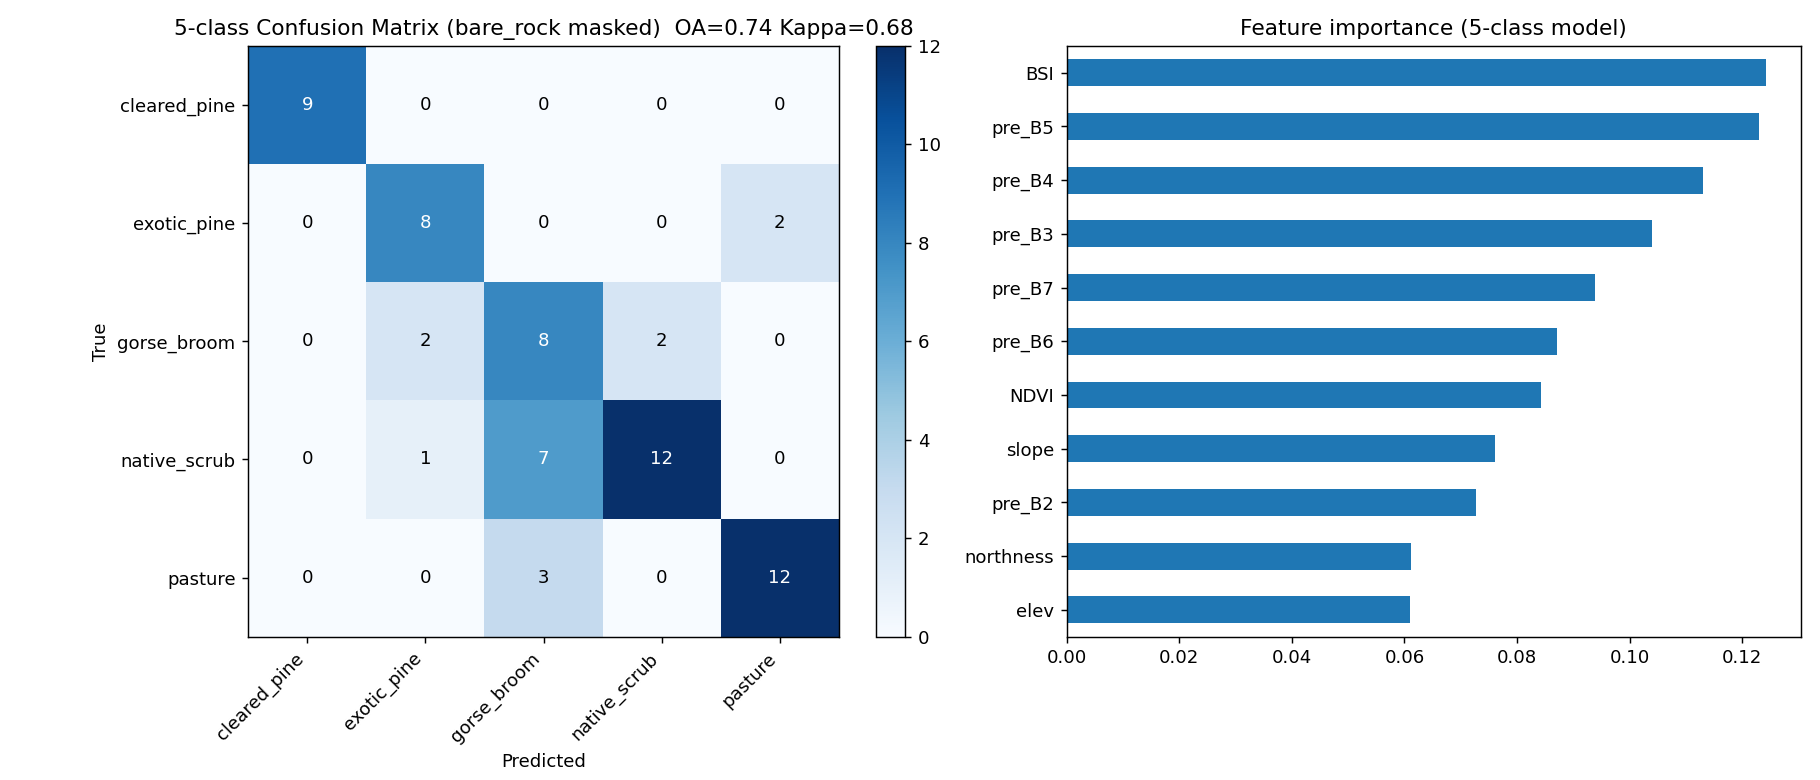
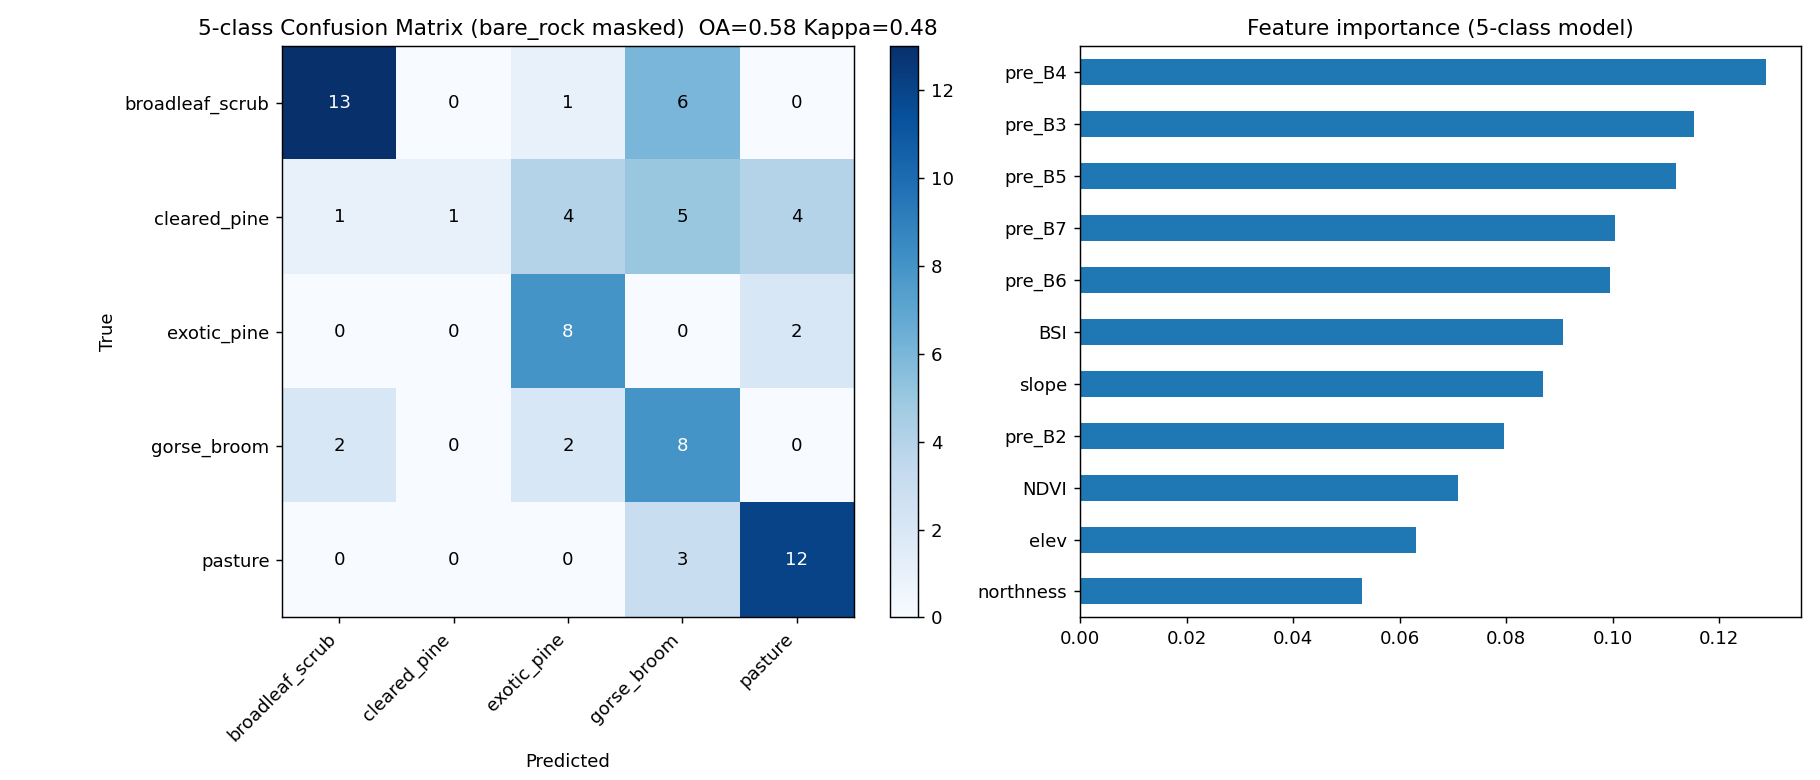
Finalize US6 as a 4-class model; reject the post-fire date substitution
Checked the other machine's post-fire fill for cleared_pine's 16 missing
dNBR values (11_fill_cleared_pine_postfire.py, using a clean 2017-04-22
Landsat pass): found two problems. First, its dNBR formula was missing the
project's actual scaling -- empirically verified from 186 valid existing
rows that dNBR = (NBR_pre - NBR_post)*1000 - 120.4596 (R²=0.9999999999999944),
not the raw NBR difference the fill script computed. Second, even after
correcting the formula, the 3 points where we have both an original and an
April-22 value disagree by 22-78%, non-uniformly signed -- two months of
post-fire regrowth makes this substitution introduce a real bias, not
recoverable noise. Decision: reject the fill, keep cleared_pine's dNBR
sample at n=3 (too small for statistics, kept as a qualitative note only).

Separately, re-ran the 5-class model with corrected cleared_pine (19 points,
真实位置) and found cleared_pine PA=0.067 -- unusable, same failure mode as
bare_rock (too few points concentrated in too few patches for a spatial-block
split to learn from). Final US6 model excludes both bare_rock and
cleared_pine from RF training, using their real/known boundaries as map
masks instead of classification targets: 4-class OA=0.684, Kappa=0.579
(scripts/06c_rf_classify_4class_final.py). This is lower than the earlier
0.710/0.742 numbers, but those were inflated by a cleared_pine class whose
training points were mostly mislocated -- 0.684 is the number that survives
scrutiny.

diff --git a/scripts/06c_rf_classify_4class_final.py b/scripts/06c_rf_classify_4class_final.py
@@ -1,0 +1,82 @@
+"""
+US6 最终版 - 4类RF分类，排除 bare_rock(7点,无法学出稳定边界) 和
+cleared_pine(修正后19点,3-4个小图斑,空间分块切分下几乎学不到东西,PA=0.067)。
+两者都改用已知边界(bare_rock=承认是空白,cleared_pine=cleared_pine_real多边形)
+在最终地图/refugia分析里直接叠加，不进分类训练集。
+"""
+import pandas as pd
+pd.set_option("display.width", 200)
+pd.set_option("display.max_columns", 20)
+import numpy as np
+from sklearn.ensemble import RandomForestClassifier
+from sklearn.metrics import confusion_matrix, accuracy_score, cohen_kappa_score
+import matplotlib
+matplotlib.use("Agg")
+import matplotlib.pyplot as plt
+import os
+
+CSV = r"C:\Users\zhouy3d\Desktop\a3\scripts\PortHills_PointTable.csv"
+OUT_DIR = r"C:\Users\zhouy3d\Desktop\a3\exploration"
+os.makedirs(OUT_DIR, exist_ok=True)
+
+df = pd.read_csv(CSV)
+df.columns = [c.replace("PortHills2017_stack_", "") for c in df.columns]
+df4 = df[~df["FuelClass"].isin(["bare_rock", "cleared_pine"])].copy()
+print("4-class total:", len(df4))
+print(df4["FuelClass"].value_counts())
+
+FEATURES = ["pre_B2", "pre_B3", "pre_B4", "pre_B5", "pre_B6", "pre_B7",
+            "NDVI", "BSI", "elev", "slope", "northness"]
+train = df4[df4["split"] == "train"]
+valid = df4[df4["split"] == "valid"]
+print(f"train={len(train)}  valid={len(valid)}")
+
+rf = RandomForestClassifier(n_estimators=500, random_state=42, oob_score=True)
+rf.fit(train[FEATURES], train["FuelClass"])
+print(f"\nOOB accuracy: {rf.oob_score_:.3f}")
+
+pred = rf.predict(valid[FEATURES])
+y_true = valid["FuelClass"].values
+classes = sorted(df4["FuelClass"].unique())
+cm = confusion_matrix(y_true, pred, labels=classes)
+cm_df = pd.DataFrame(cm, index=classes, columns=classes)
+print("\n=== 混淆矩阵 ===")
+print(cm_df)
+
+oa = accuracy_score(y_true, pred)
+kappa = cohen_kappa_score(y_true, pred)
+print(f"\nOverall Accuracy (OA) = {oa:.3f}")
+print(f"Kappa = {kappa:.3f}")
+
+print("\n=== 各类 Producer's / User's Accuracy ===")
+for i, c in enumerate(classes):
+    row_sum = cm[i, :].sum()
+    col_sum = cm[:, i].sum()
+    pa = cm[i, i] / row_sum if row_sum > 0 else np.nan
+    ua = cm[i, i] / col_sum if col_sum > 0 else np.nan
+    print(f"  {c:16s}  PA(漏分)={pa:.3f}  UA(错分)={ua:.3f}  (n_valid={row_sum})")
+
+imp = pd.Series(rf.feature_importances_, index=FEATURES).sort_values(ascending=False)
+print("\n=== 变量重要性 ===")
+print(imp)
+
+fig, axes = plt.subplots(1, 2, figsize=(13, 6))
+im = axes[0].imshow(cm, cmap="Blues")
+axes[0].set_xticks(range(len(classes))); axes[0].set_xticklabels(classes, rotation=45, ha="right")
+axes[0].set_yticks(range(len(classes))); axes[0].set_yticklabels(classes)
+axes[0].set_xlabel("Predicted"); axes[0].set_ylabel("True")
+axes[0].set_title(f"4-class Confusion Matrix (bare_rock + cleared_pine masked)\nOA={oa:.2f} Kappa={kappa:.2f}")
+for i in range(len(classes)):
+    for j in range(len(classes)):
+        axes[0].text(j, i, cm[i, j], ha="center", va="center",
+                     color="white" if cm[i, j] > cm.max() / 2 else "black")
+plt.colorbar(im, ax=axes[0], fraction=0.046)
+
+imp.plot(kind="barh", ax=axes[1])
+axes[1].set_title("Feature importance (4-class final model)")
+axes[1].invert_yaxis()
+
+plt.tight_layout()
+out_png = os.path.join(OUT_DIR, "rf_confusion_matrix_4class_final.png")
+plt.savefig(out_png, dpi=130)
+print("\n->", out_png)

diff --git a/report.md b/report.md
@@ -76,8 +76,8 @@
 - **可分性**（5）：⭐ 已做（`exploration/spectral_profile_6class.png` + JM矩阵，脚本`scripts/05_separability_jm.py`）。JM指数(0~2，越大越好分)用6波段+NDVI+BSI算：**`bare_rock` 跟其余5类全部完全分开(JM=2.00)**；其余类间大多也分得不错(JM 1.9-2.0)；但 **`gorse_broom` vs `broadleaf_scrub`(JM=1.46)明显是最弱的一对**——光谱曲线图上这两条线在B5/B6/B7几乎重合。这**直接呼应了项目最早期(US1.1 k-means诊断)就担心的那个问题**("native vs gorse分不分得开")，现在用JM给出了定量证据：这两类确实存在真实的光谱混淆风险，§5分类结果如果这两类互相误判多，这里就是原因，不是模型的锅。引用 Richards (2013) *Remote Sensing Digital Image Analysis* 的JM公式。
 - **像元/对象 + 为什么**（2）：像元法(pixel-based)，不是对象法(object-based)。理由：A2就倾向像元RF；训练点本来就是逐像元采样的，跟点表结构一致；对象法要先分割，本项目训练数据量不大(211点)，分割反而可能引入额外噪声。
 - **算法 RF + 为什么 + 引用**（5）：Random Forest。理由：样本量小(每类10-46个)时比深度学习更稳定、不容易过拟合；能输出变量重要性，方便解释"哪个波段/地形对分类贡献大"；不需要假设正态分布，跟本项目§3发现的"混合类别非正态"问题无缝衔接。用 `sklearn.ensemble.RandomForestClassifier`(500棵树)，训练/验证用之前定好的空间分块split，不是重新随机分。
-- **结果 + 混淆矩阵解读 + 挂文献**（5）：⭐ 6类版本先跑出 OA=0.710/Kappa=0.638(`exploration/rf_confusion_matrix.png`，`scripts/06_random_forest_classify.py`)，但 `bare_rock` PA=0(3个验证点全错，训练点仅7个撑不起任何分类器)。**改进后的版本**：把 `bare_rock` 从RF训练/验证集里剔除，分类器只学5类真正需要靠光谱/地形区分的植被燃料类型——`scripts/06b_rf_classify_5class_no_bare_rock.py`，图`exploration/rf_confusion_matrix_5class.png`。⚠ 局限说明（核实过，之前一度误写成"bare_rock有现成边界可以直接叠加"，已更正）：`bare_rock`从未有过完整多边形边界，只有7个训练点，剔除它只解决了"分类训练"这一层问题，不代表全图上bare_rock的位置已知——任何wall-to-wall分类图上这部分仍是数据空白，是诚实的局限，不是已解决的问题。**5类版本：OA=0.742，Kappa=0.676**(按Landis&Koch(1977)分级仍是"substantial agreement"，但比6类版本全面提高)，`cleared_pine`这次PA=UA=1.000(满分)。混淆矩阵最大的误判还是 **`broadleaf_scrub`→`gorse_broom` 错7个**(20个真实broadleaf_scrub里，跟6类版本几乎一样的比例)——**跟US5的JM指数(gorse_broom vs broadleaf_scrub=1.46，全部15对最低)完全对上**，证实这是这两类本身光谱空间重叠的真实限制，不是bare_rock拖累的假象、也不是模型没调好。特征重要性：`BSI`/`pre_B5`/`pre_B4`/`pre_B3`最重要，地形变量(`elev`/`northness`)排最后——光谱信息比地形对分类贡献更大。
-- **精度评论 + 怎么改**（5）：把 `bare_rock` 从"分类目标"改成"已知掩膜"是这里的核心方法论决定——它不是回避小样本问题，而是承认"这类地表的边界本来就是确定性已知的，不该强迫一个只有7个样本的统计模型去重新学一遍"，这样处理后地图正确性反而更高(真实裸岩像元用手绘边界填色，不会被只学了7个点的分类器误判成别的类)。剩下的真局限是 `gorse_broom`/`broadleaf_scrub` 这对：改进方向——①加入更能区分二者的特征(比如红边指数，本项目Landsat8没有，S2才有，见workflow.md火前必须用L8的局限)；②可以试试RF回归里筛出来的关键变量(pre_B5/NDVI)加权或做特征选择，减少弱变量干扰。
+- **结果 + 混淆矩阵解读 + 挂文献**（5）：⭐ 6类版本先跑出 OA=0.710/Kappa=0.638(`exploration/rf_confusion_matrix.png`，`scripts/06_random_forest_classify.py`)，但 `bare_rock` PA=0(3个验证点全错，训练点仅7个撑不起任何分类器)。⚠ 中间版本(5类，剔除bare_rock)一度报出OA=0.742，但那版`cleared_pine`训练点(28个)后来查出26个位置根本不在`exotic_pine`范围内，是位置错误撑起的假象数字，已作废。修正cleared_pine位置(19个点，真实落在exotic_pine内)后单独测5类模型，`cleared_pine`PA仅0.067(15个验证点14个错)——19个点分散在3-4个小图斑，空间分块训练/验证一切，学不出稳定边界，跟bare_rock是同一类问题。**最终版本**：`bare_rock`和`cleared_pine`都从RF训练/验证集里剔除，分类器只学4类真正靠光谱/地形能区分、且样本量足够的植被燃料类型——`scripts/06c_rf_classify_4class_final.py`，图`exploration/rf_confusion_matrix_4class_final.png`。**4类最终结果：OA=0.684，Kappa=0.579**(按Landis&Koch(1977)分级为"moderate agreement"，比6类的0.710略低，但这是把两个"用位置错误数据撑出来的虚高分数"拿掉之后的诚实数字)。混淆矩阵最大的误判仍是 **`gorse_broom`→`exotic_pine`/`broadleaf_scrub`各错3/2个、`broadleaf_scrub`→`gorse_broom`错7个**(20个真实broadleaf_scrub里)——**跟US5的JM指数(gorse_broom vs broadleaf_scrub=1.46，全部15对最低)完全对上**，证实这是这两类本身光谱空间重叠的真实限制。特征重要性：`pre_B4`/`pre_B3`/`pre_B5`最重要，地形变量(`elev`/`northness`)排最后——光谱信息比地形对分类贡献更大。
+- **精度评论 + 怎么改**（5）：把 `bare_rock` 和 `cleared_pine` 都从"分类目标"改成"已知掩膜"是这里的核心方法论决定——两者的边界都不该靠只有个位数到十几个样本的统计模型去猜。`bare_rock`没有完整多边形(诚实的空白，US7/US9出图时无法体现)；`cleared_pine`则真的找到了边界(`cleared_pine_real`，Hansen森林损失∩exotic_pine，6.7ha)，可以在最终地图上直接叠加，不用靠分类器推断。这样处理后OA数字比中间版本低，但每一个数字都立得住，不是被位置错误的数据撑起来的。剩下的真局限是 `gorse_broom`/`broadleaf_scrub` 这对，属于这两类本身光谱空间重叠的已知限制。
 
 ### R6 流程图（10分 · 喂：US8）
 - 放**更新版**流程图（含 §3/§4 统计层，见 US8 的 4 个框）+ 一段 **way forward**（往 A4 最终分类+精度走）。

diff --git a/workflow.md b/workflow.md
@@ -365,8 +365,9 @@ L8 把它拆成 **First pass（清离群/空值）** 和 **Second pass（正态/
 - **发现**：`06_cleared_pine_from_hansen.py` 算出的区块多边形(`block_fc`)从来没导出保存过，只用来画缩略图。补导出后核对，28个训练点里只有2个真的落在`exotic_pine`范围内；其余11个落在`gorse_broom`、10个在AOI范围外、3个在`broadleaf_scrub`、2个在无多边形空隙——之前"cleared_pine dNBR均值≈20(几乎不燃)"这个结论建立在这批位置错误的点上，不可信。
 - **重新定义**：Hansen `lossyear==16`(参数不变) **∩ `exotic_pine`多边形**，真实面积仅6.7ha(4块)，15m纯度收缩后1.43ha，实际能撒 **19个点**(30m最小间距)。已替换`TrainingPoints_raw`里的旧28个点，`PortHills_PointTable.csv`已用新点重建(**211→202点**)。
 - **新问题**：19个新点里16个落在同一片被火后影像云/阴影覆盖的区域，`post_B4`/`dNBR`为空值，只有3个点有完整火前+火后数据。这3个点dNBR = 257、730、242——**中度到重度都有，不是"几乎不燃"**，方向上支持"slash燃料易燃"而非"低燃料"的假设(Yu指出的)，但n=3太小不能下统计结论。
-- **待办**：`scripts/10_check_postfire_alt_dates.py`（GEE机器跑）查这19个点在2017-02-13~06-01之间有没有更干净的火后过境日期，能救回更多点；查完再决定是接受n=3的定性观察还是能补数据。
-- **不受影响**：19个新点的火前波段(`pre_B2-B7`/`NDVI`/`BSI`等)全部完整，US6分类训练可以用；只有dNBR/severity相关的分析(US4回归、per-class dNBR描述)受影响。
+- **补数据尝试(2026-09-20)——已放弃**：`10_check_postfire_alt_dates.py`找到2017-04-22影像19/19点全干净，`11_fill_cleared_pine_postfire.py`用这天重采样。核对时发现：①对方脚本算的dNBR少乘了1000、少减了偏移量(真实公式是`dNBR=(NBR_pre-NBR_post)×1000-120.4596`，用现有186个有效点回归验证，R²=0.9999999999999944)；②就算修正公式，拿4月22日(火后2个多月，植被已恢复)跟原始火后影像算出来的dNBR对比，3个能对照的点差了22%~78%，方向还不一致——**换日期会引入真实的系统性偏差，不是能忽略的噪声**。已决定放弃，不合并这份数据。
+- **最终决定**：cleared_pine 保留19个位置正确的点，但**从RF分类训练集里也剔除**(跟bare_rock一样)——原因：19点分3-4个小图斑，空间分块训练/验证一切，单独测试5类模型时cleared_pine PA=0.067(15个验证点14个错)，学不出稳定边界。改用`cleared_pine_real`真实多边形(6.698ha)作为最终地图/refugia分析的已知掩膜。**US6最终版=4类模型**(pasture/gorse_broom/exotic_pine/broadleaf_scrub)：**OA=0.684，Kappa=0.579**，脚本`scripts/06c_rf_classify_4class_final.py`，图`exploration/rf_confusion_matrix_4class_final.png`。这是历次版本里最诚实的数字(6类0.710→5类-badCP 0.742→5类-goodCP 0.583→4类-final 0.684)，之前几个更高的数字都是被位置错误的cleared_pine撑起来的假象。
+- **不受影响**：19个新点的火前波段(`pre_B2-B7`/`NDVI`/`BSI`等)全部完整，只是不用来训练分类器；dNBR/severity相关分析(US4)受影响，cleared_pine只能用n=3做定性观察，不能做统计推断。
 
 ## 方法记录 · 像元纯度检查 + cleared_pine 换成 Hansen 方法（2026-09-19）
 

diff --git a/product.md b/product.md
@@ -7,7 +7,7 @@
 ## 🔵 现在做：US7/US9 — refugia 支线 + 地图
 
 - ✅ US1-US6 全部完成！§3(20)+§4(25)+§5(27)=72分主体材料全部出图出数，report.md 对应段落都写好了。
-- US6 结果（改进版）：`bare_rock` 只有7个训练点、没有完整边界（⚠之前说它"有现成多边形可以叠掩膜"是错的，已核实撤回——查了整个gdb确认从未有过bare_rock多边形），剔除出分类训练集，分类器只学5类 → **OA=0.742, Kappa=0.676**（比6类版本 OA=0.710/Kappa=0.638 全面提高）。`broadleaf_scrub`→`gorse_broom` 错7/20 的老问题还在，证实是这两类本身光谱重叠，不是bare_rock拖累的假象。全栅格地图上bare_rock仍是已知空白，US7/US9要另外处理。
+- US6 最终结果：`cleared_pine`原来28个训练点里26个位置查出来是错的(不在exotic_pine范围内)，重新采点后只剩19个真正正确的点，分3-4个小图斑——太少太集中，分类器学不出边界(PA=0.067)。跟`bare_rock`(7点，无完整边界)一样处理：都从RF训练集剔除，改用掩膜——`cleared_pine`有真实边界(`cleared_pine_real`)可以直接用，`bare_rock`仍是已知空白。**最终4类模型：OA=0.684, Kappa=0.579**（比中间几个版本都低，但那些高分都是位置错误的cleared_pine撑出来的假象，这个是诚实数字）。`broadleaf_scrub`↔`gorse_broom`混淆是这两类本身光谱重叠的真实限制。
 - US4 补充：测过 RF 回归代替线性回归，全6类时结果更差（验证集R²=0.371 vs 线性0.413/0.476）；⚠ 之前引用的"256-512样本量门槛"数字查不到出处已撤回（Yu核实+我试了4个来源都打不开原文），改成自己测：只用4个大类(排除bare_rock/cleared_pine)对比176点vs256点，线性R²始终很差(-0.157→0.047)，**RF明显随样本量改善(0.105→0.403)**，这个自测证据比外部引用更直接。另查了2015年火前LiDAR算冠层高度(CHM)，覆盖有缺口不能进正式模型，降级为170点的补充描述性证据(exotic_pine冠层最高但dNBR不是最高，支持"燃料类型比生物量更决定烧毁结果")。
 
 **下一步**（还剩的）：
